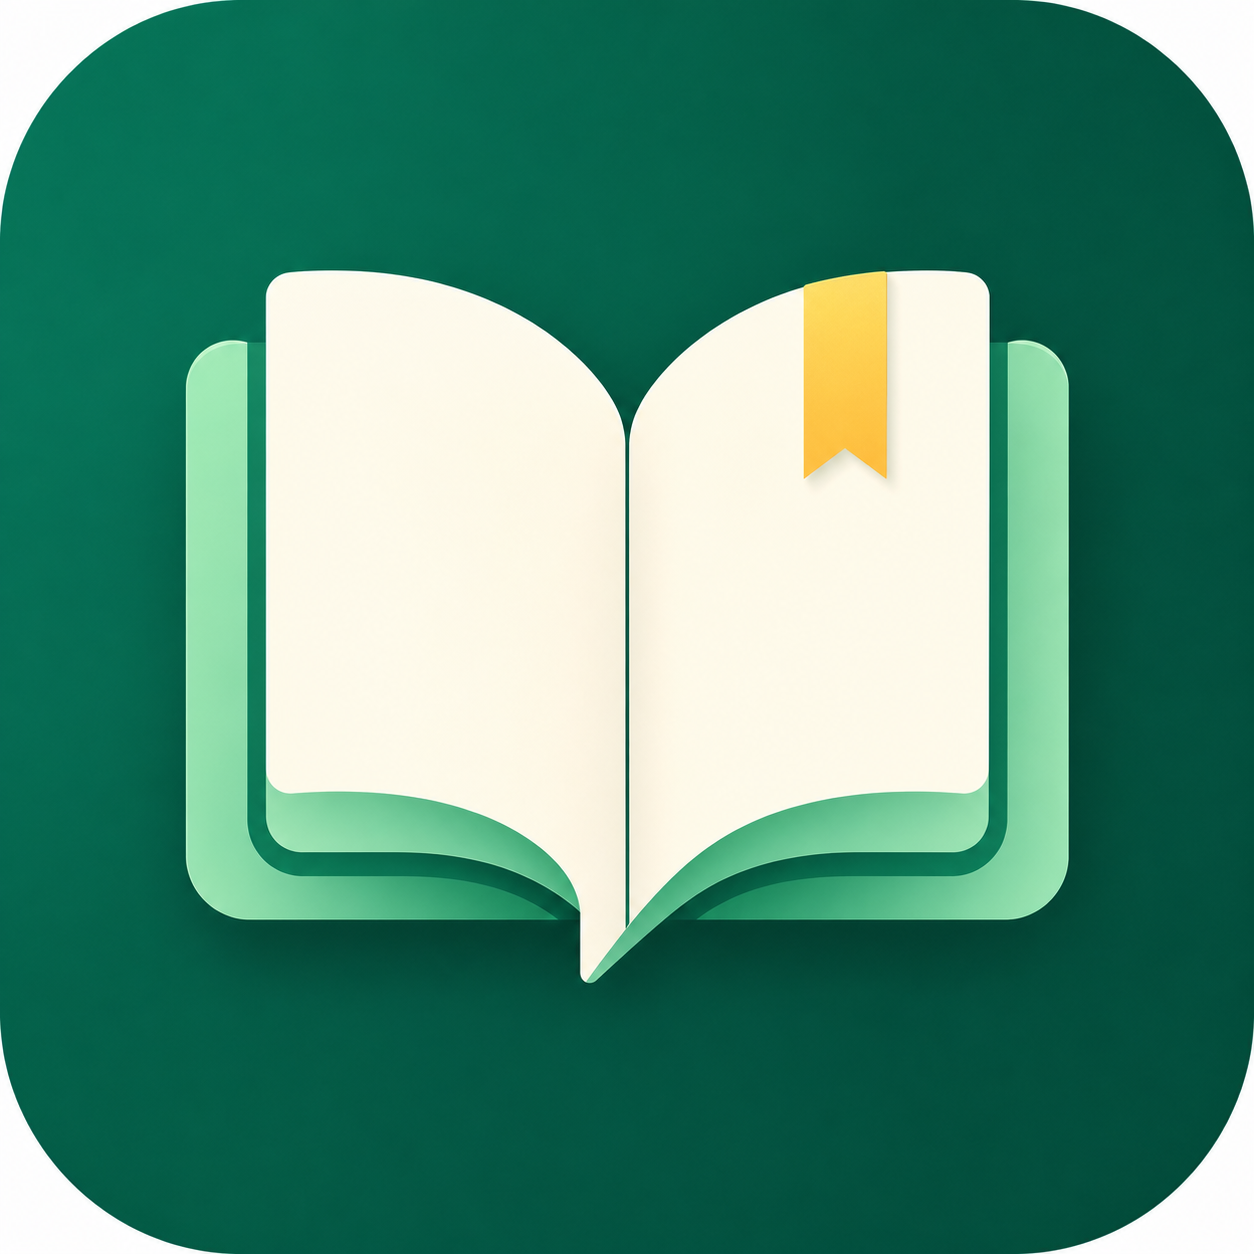
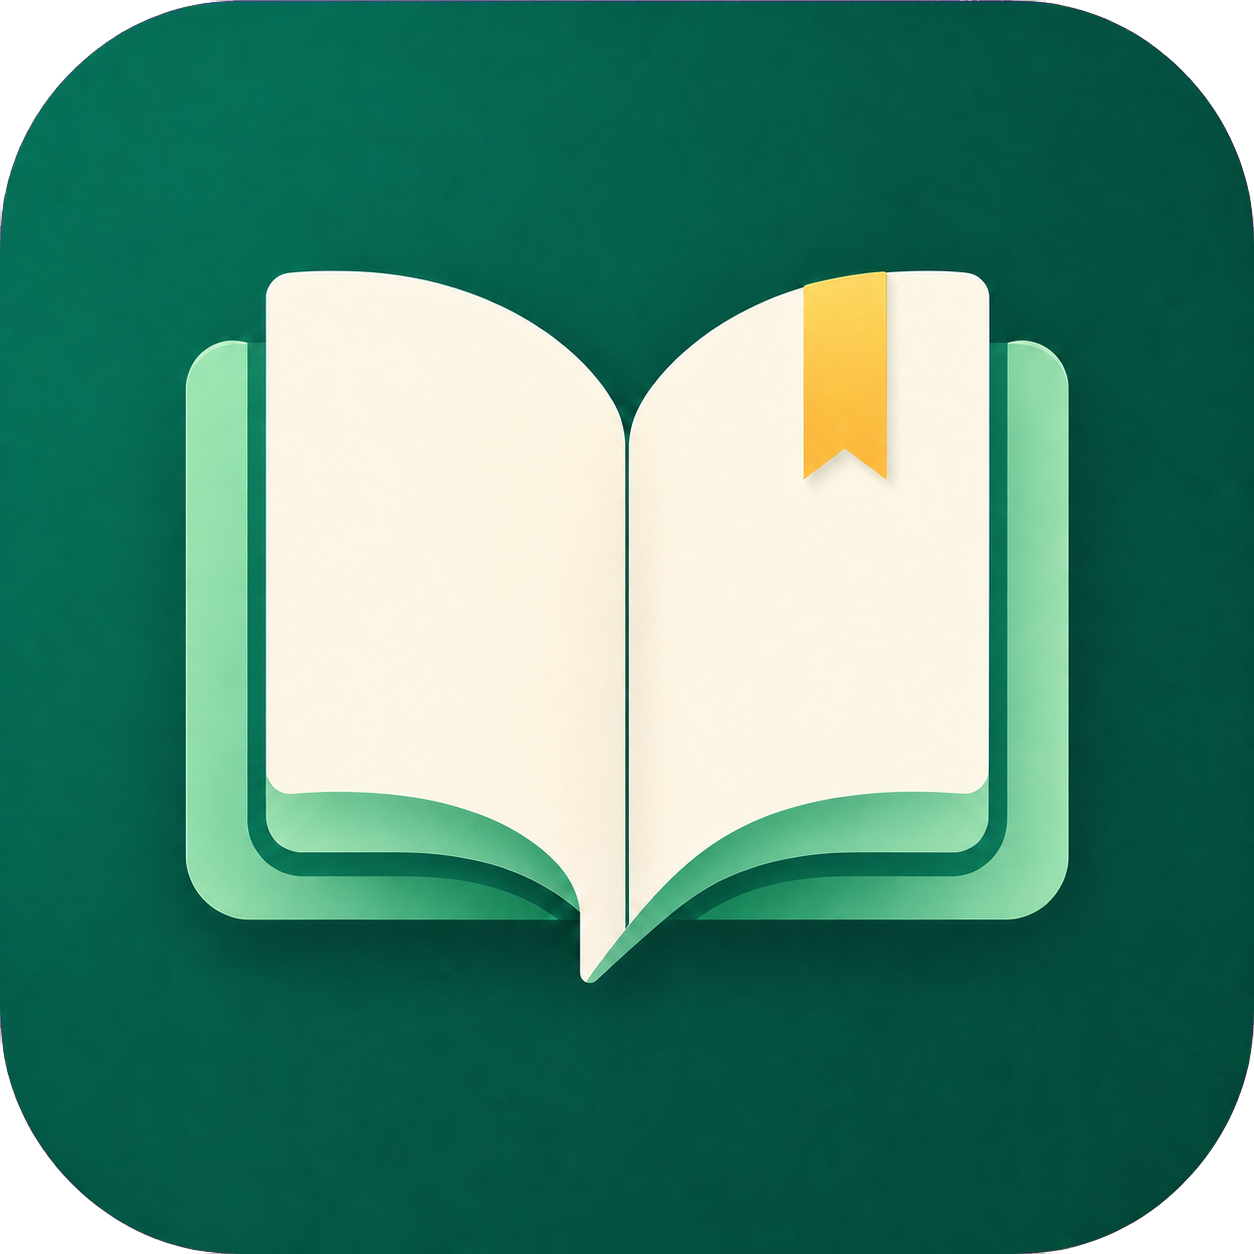
fix: load reader through webview port mapping

diff --git a/src/webview.ts b/src/webview.ts
@@ -13,6 +13,11 @@ export interface ReaderState {
   readonly syncState: SyncState;
 }
 
+interface ReaderEndpoint {
+  readonly uri: vscode.Uri;
+  readonly port: number;
+}
+
 function nonce(): string {
   const alphabet =
     "ABCDEFGHIJKLMNOPQRSTUVWXYZabcdefghijklmnopqrstuvwxyz0123456789";
@@ -260,8 +265,8 @@ export class ReaderPanel implements vscode.WebviewViewProvider {
   private panel: vscode.WebviewPanel | undefined;
   private view: vscode.WebviewView | undefined;
   private proxy: WeReadProxy | undefined;
-  private proxyUri: vscode.Uri | undefined;
-  private proxyStartup: Promise<vscode.Uri> | undefined;
+  private endpoint: ReaderEndpoint | undefined;
+  private proxyStartup: Promise<ReaderEndpoint> | undefined;
   private hiddenTarget: "panel" | "sidebar" | "both" | undefined;
   private lastTextEditor:
     | { document: vscode.TextDocument; viewColumn: vscode.ViewColumn | undefined }
@@ -408,7 +413,7 @@ export class ReaderPanel implements vscode.WebviewViewProvider {
     this.panel?.dispose();
     this.panel = undefined;
     this.view = undefined;
-    this.proxyUri = undefined;
+    this.endpoint = undefined;
     void this.proxy?.stop();
     this.proxy = undefined;
     this.stateEmitter.dispose();
@@ -438,11 +443,20 @@ export class ReaderPanel implements vscode.WebviewViewProvider {
     );
 
     try {
-      const proxyUri = await this.ensureProxy();
+      const endpoint = await this.ensureProxy();
       const config = vscode.workspace.getConfiguration("wereadReader");
+      webview.options = {
+        enableScripts: true,
+        portMapping: [
+          {
+            webviewPort: endpoint.port,
+            extensionHostPort: endpoint.port
+          }
+        ]
+      };
       webview.html = renderReaderHtml(
         webview,
-        proxyUri,
+        endpoint.uri,
         config.get<number>("opacity", 1),
         this.context.globalState.get<string>(LAST_READ_KEY),
         compact
@@ -466,21 +480,21 @@ export class ReaderPanel implements vscode.WebviewViewProvider {
     }
   }
 
-  private async ensureProxy(): Promise<vscode.Uri> {
-    if (this.proxyUri) {
-      return this.proxyUri;
+  private async ensureProxy(): Promise<ReaderEndpoint> {
+    if (this.endpoint) {
+      return this.endpoint;
     }
     this.proxyStartup ??= this.startProxy();
     try {
       return await this.proxyStartup;
     } finally {
-      if (!this.proxyUri) {
+      if (!this.endpoint) {
         this.proxyStartup = undefined;
       }
     }
   }
 
-  private async startProxy(): Promise<vscode.Uri> {
+  private async startProxy(): Promise<ReaderEndpoint> {
     const preferredPort = vscode.workspace
       .getConfiguration("wereadReader")
       .get<number>("proxyPort", 0);
@@ -520,10 +534,11 @@ export class ReaderPanel implements vscode.WebviewViewProvider {
 
     try {
       const address = await proxy.start(preferredPort);
-      const browserUri = await vscode.env.asExternalUri(
-        vscode.Uri.parse(address.origin)
-      );
-      this.proxyUri = browserUri;
+      const endpoint = {
+        uri: vscode.Uri.parse(`http://localhost:${address.port}`),
+        port: address.port
+      };
+      this.endpoint = endpoint;
       this.updateState(
         "idle",
         this.session.isLoggedIn
@@ -531,7 +546,7 @@ export class ReaderPanel implements vscode.WebviewViewProvider {
           : "等待扫码登录",
         this.session.isLoggedIn
       );
-      return browserUri;
+      return endpoint;
     } catch (error) {
       await proxy.stop();
       if (this.proxy === proxy) {

diff --git a/README.md b/README.md
@@ -24,7 +24,7 @@
 
 1. 安装生成的 `.vsix`。
 2. 点击右下角微信读书图标，或运行 `微信读书：打开阅读小窗`。
-3. 小窗默认位于资源管理器下方。拖动左侧栏右边缘调整宽度，拖动“微信读书”标题上方的分隔线调整高度。
+3. 小窗以“文档预览”的名称显示在资源管理器下方。拖动左侧栏右边缘调整宽度，拖动视图标题上方的分隔线调整高度。
 4. 在小窗中扫码登录后开始阅读；需要更大空间时点击“展开”。
 5. 正常退出书籍或关闭阅读页即可；阅读进度由微信读书网页自动上报。
 

diff --git a/CHANGELOG.md b/CHANGELOG.md
@@ -1,5 +1,11 @@
 # 更新日志
 
+## 0.2.5
+
+- 侧栏标题改为更隐晦的“文档预览”
+- 使用 VS Code Webview 端口映射加载阅读页，修复侧栏空白
+- 插件图标圆角外侧改为透明背景
+
 ## 0.2.4
 
 - 新增资源管理器下方的微信读书小窗，可拖动侧栏和分隔线调整宽高
